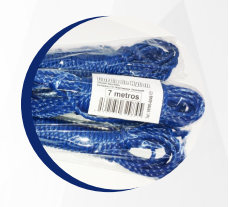
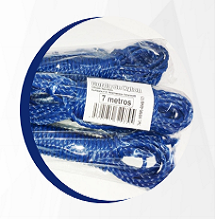
ajustado responsividade dos itens

diff --git a/src/components/product/styles.css b/src/components/product/styles.css
@@ -26,13 +26,14 @@
 }
 
 .logon-container .item ul li img{
-    min-width: 150px;
-    min-height: 150px;
+    width: 100px;
+    height: 100px;
     border-radius: 50%;
 }
 
 
 .logon-container .item ul li .centro{
+    width: 200px;
     align-items: center;
     padding: 10px;
 }
@@ -68,6 +69,7 @@
 
     .logon-container .item ul li .centro{
     padding: 50px;
+    
     }
     
     .logon-container .item ul li p{
